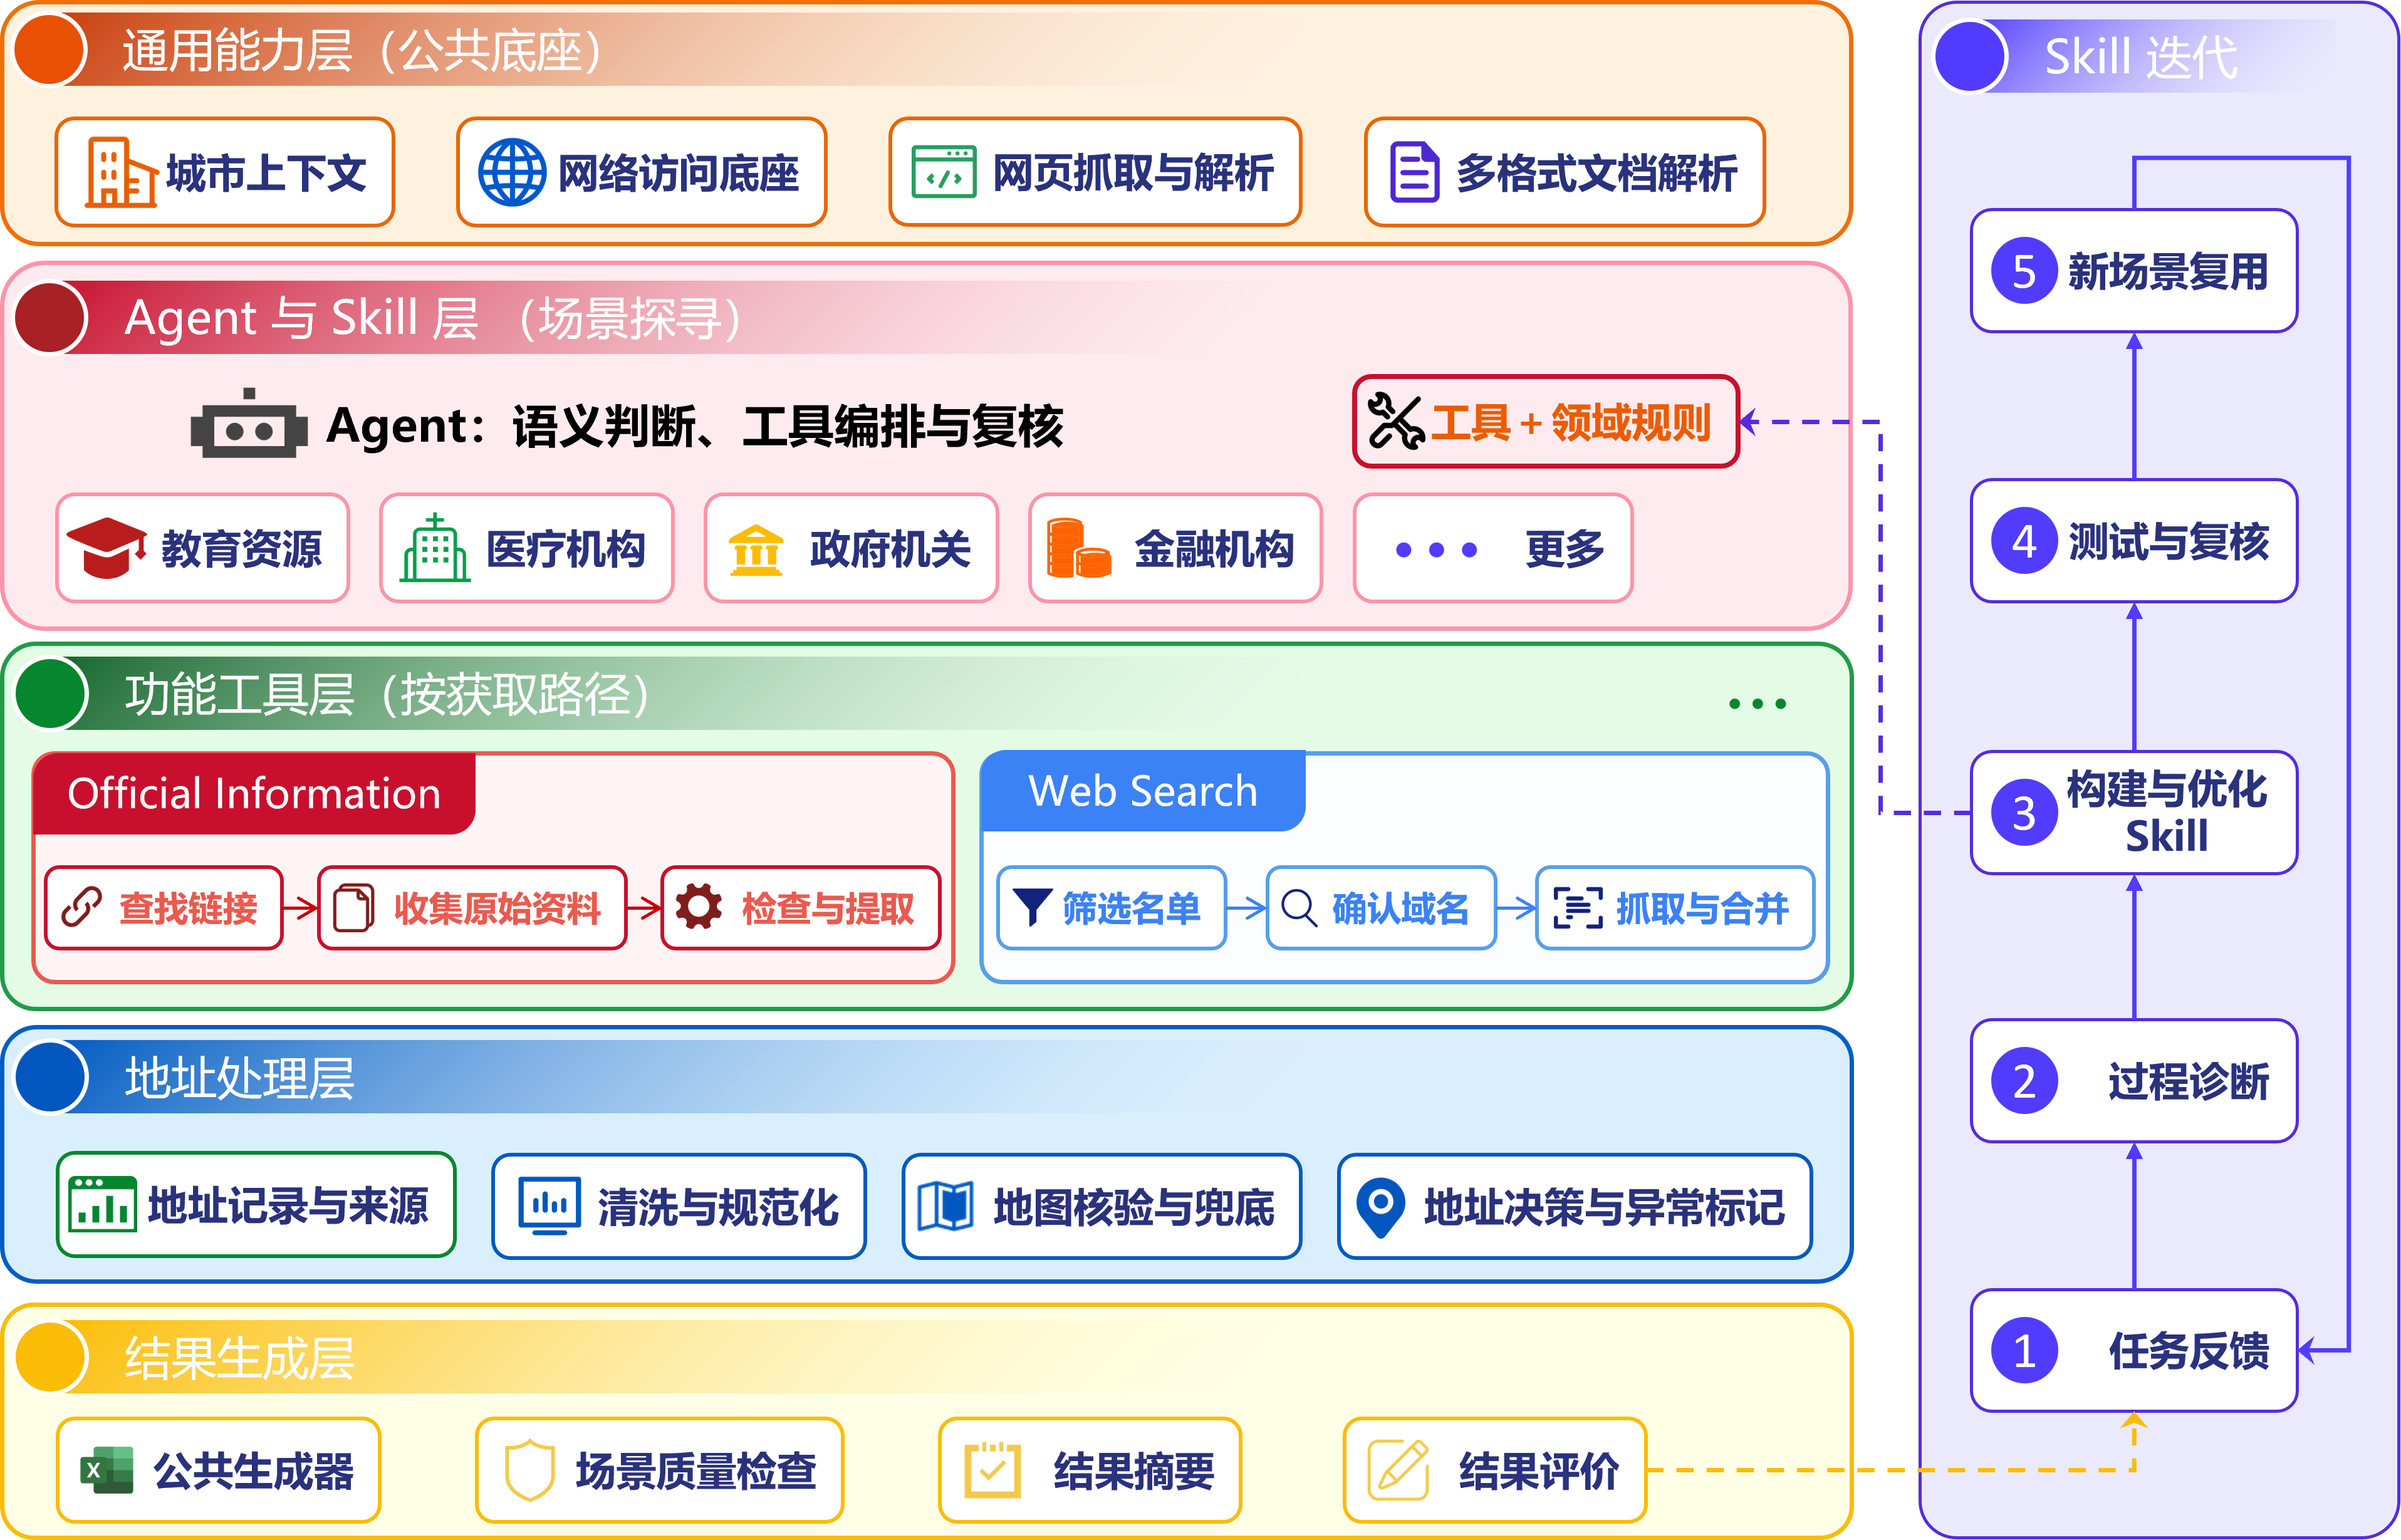
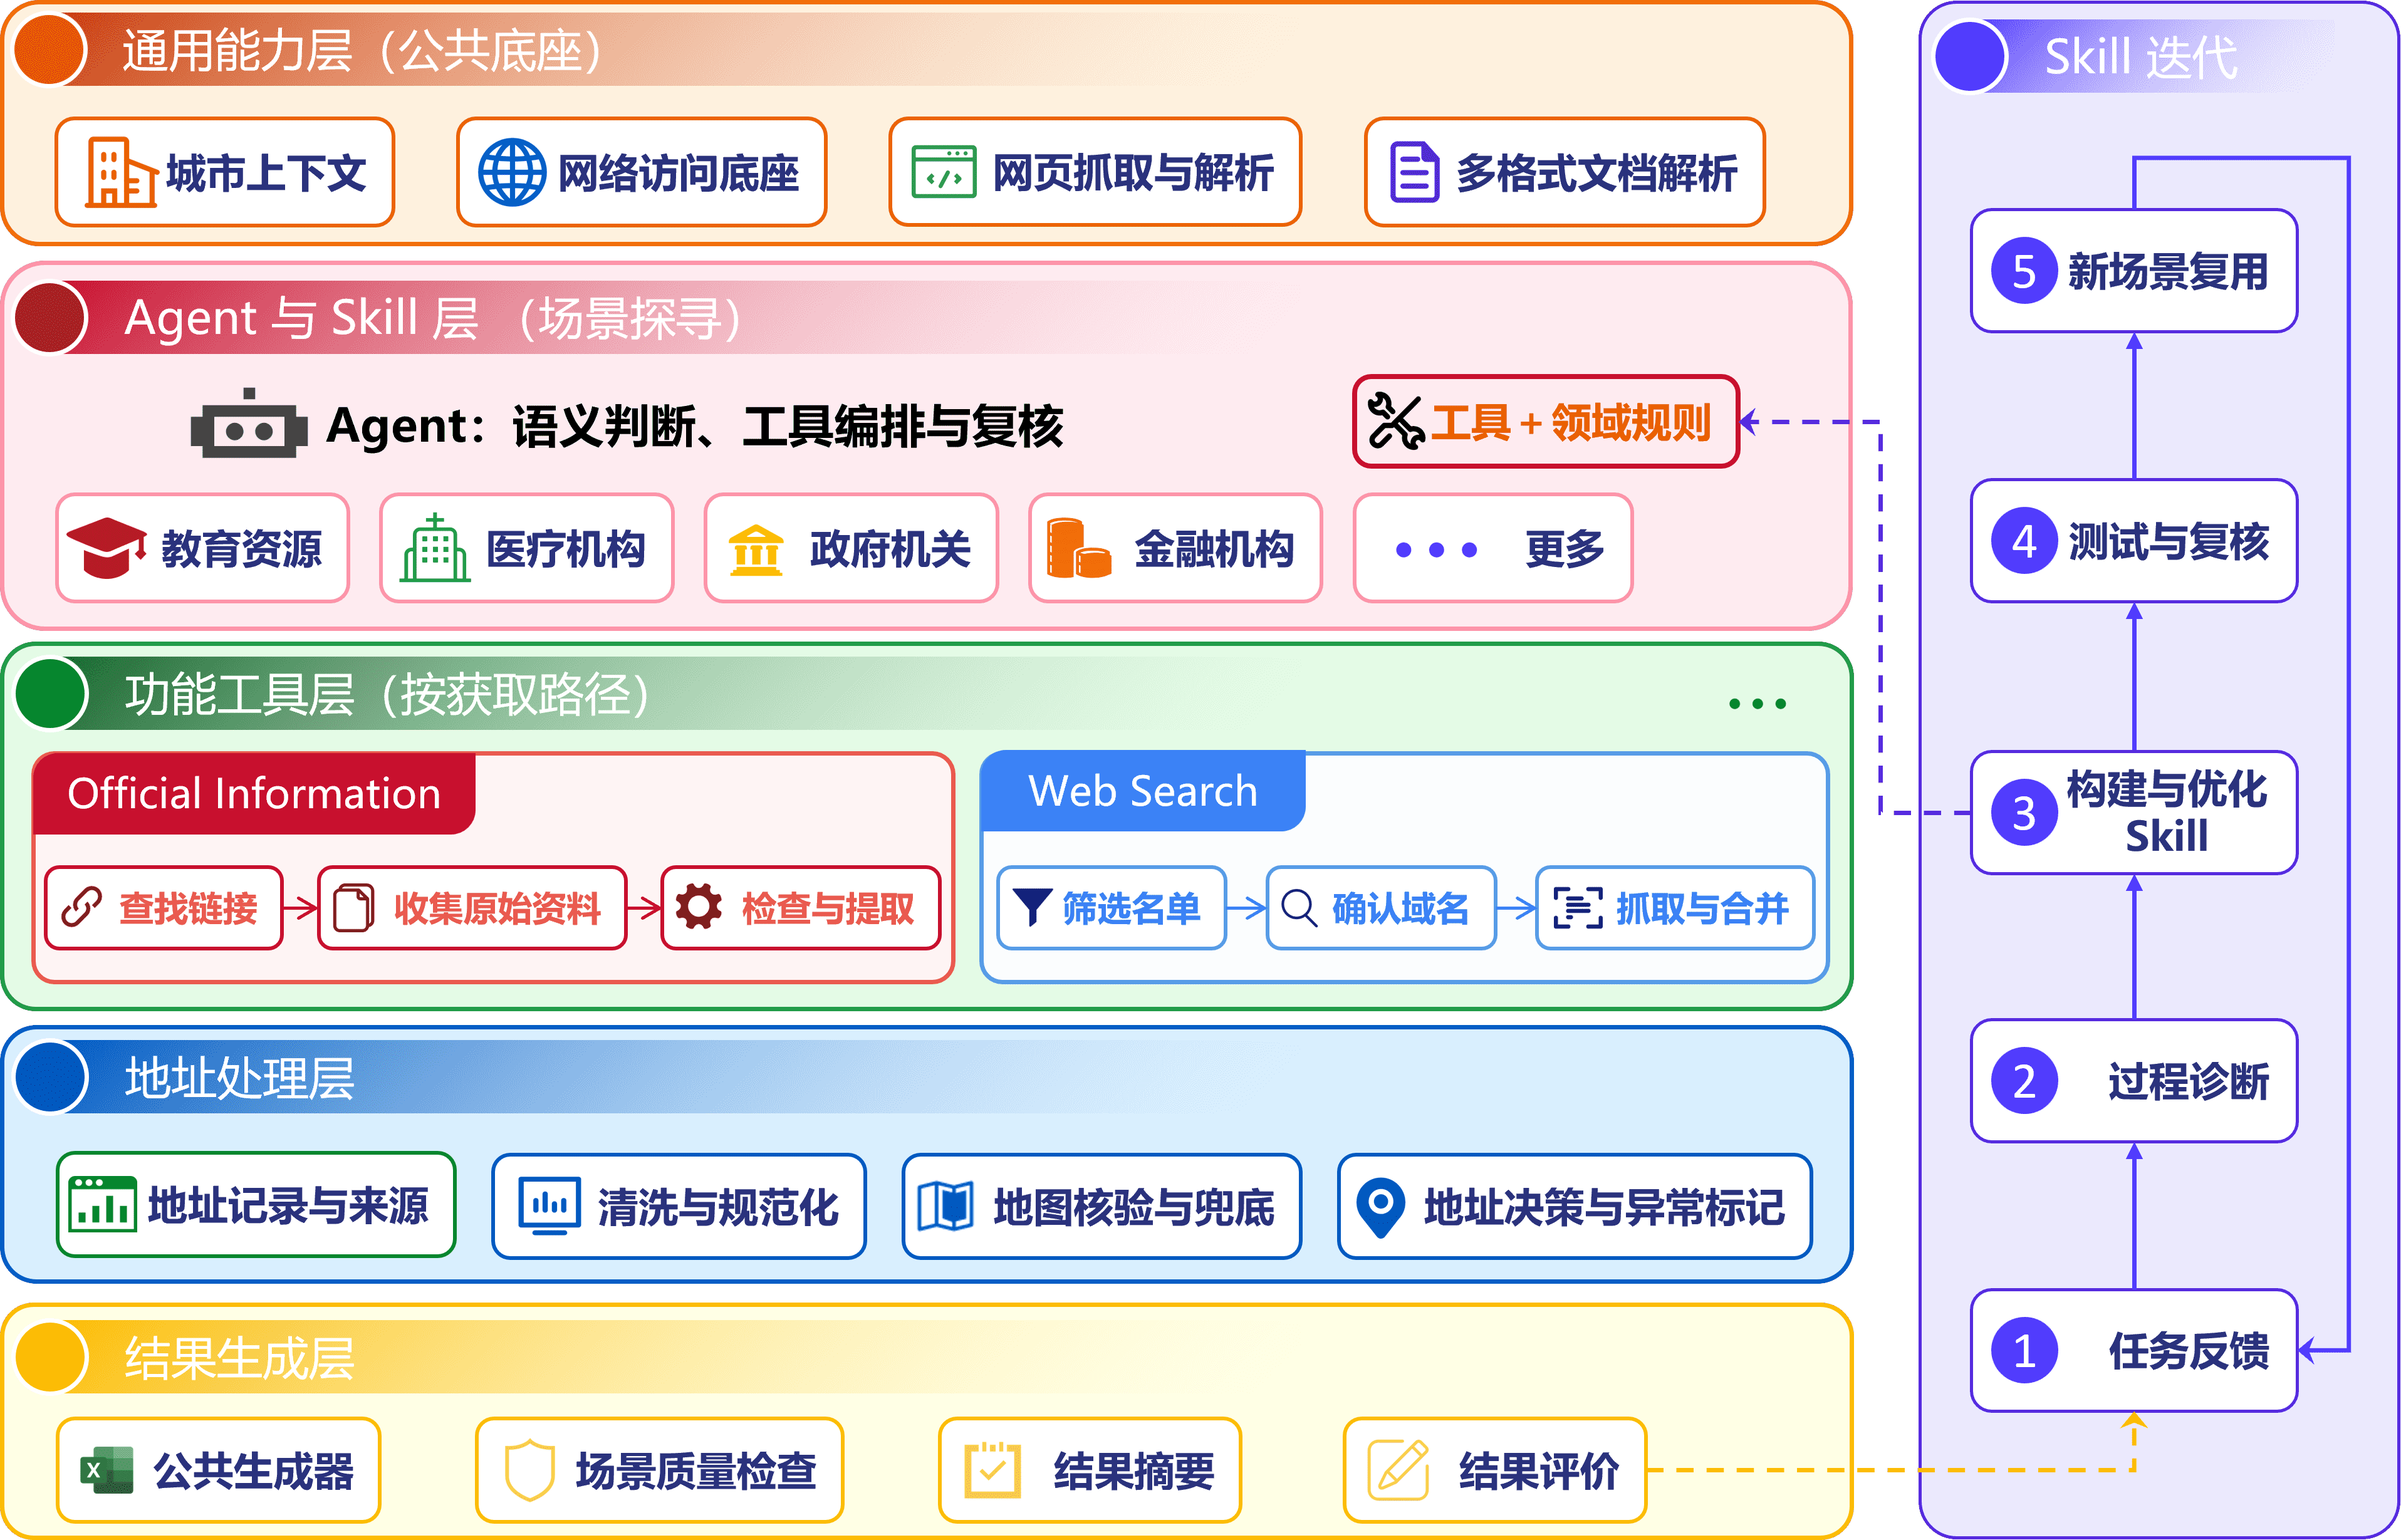
docs: 补充场景 Skill 代码结构并压缩文档配图
- 交接报告新增「场景 Skill 代码结构」：三个 Skill 的目录树与脚本职责、各 Skill 命令行入口表、两条跨 Skill 约定（闸门脚本统一接口、同名模块需分目录跑测试）
- 增长曲线图.png：1,329,217 → 201,990 bytes（15.2%），调色板量化，尺寸不变
- 架构图.png：624,873 → 325,217 bytes（52.0%），调色板量化，尺寸不变

diff --git a/doc/交接报告.md b/doc/交接报告.md
@@ -86,6 +86,62 @@ search_city_source/
 
 每个 Skill 目录结构一致：`SKILL.md`（能力与流程定义）、`AGENTS.md`（局部约定）、`scripts/`（可执行脚本与 `tests/`）、`references/`（来源与结果格式）、`assets/`（固定资产，仅高校有）、`requirements.txt`。
 
+### 场景 Skill 代码结构
+
+三个 Skill 的骨架相同，差异集中在 `scripts/`：
+
+```text
+.agents/skills/
+├── query-city-basic-education/
+│   ├── SKILL.md · AGENTS.md · requirements.txt
+│   ├── references/government-source-format.md
+│   └── scripts/
+│       ├── school_government_flow.py    政府资料流程 CLI
+│       ├── school_common.py             字段词表、记录构造、校区拆分与去重
+│       ├── review.py                    提取计划规则精确批准
+│       ├── build_excel.py               行政单位与城市总表
+│       ├── school_quality_check.py      交付质量闸门
+│       └── tests/                       7 个测试文件
+├── query-city-medical-institutions/
+│   ├── SKILL.md · AGENTS.md · requirements.txt
+│   ├── references/medical-source-format.md
+│   └── scripts/
+│       ├── medical_government_flow.py   政府资料流程 CLI
+│       ├── medical_common.py            医疗记录构造、执业地址拆分与去重
+│       ├── medical_scope.py             城市级去重、物理地址分桶、类型归并
+│       ├── build_excel.py               区级工作簿与城市总表
+│       ├── medical_quality_check.py     交付质量闸门
+│       └── tests/                       5 个测试文件
+└── query-city-universities/
+    ├── SKILL.md · AGENTS.md · requirements.txt
+    ├── assets/                          全国普通高校名单 / 985 / 211
+    ├── references/retrieval-result-format.md
+    └── scripts/
+        ├── university_filter.py         按城市筛选高校与院校标签
+        ├── university_domain.py         域名探测与批次汇总 CLI
+        ├── university_page_fetch.py     单校页面抓取与校区/地址提取
+        ├── university_fetch_runner.py   按域名清单分片并发抓取
+        ├── university_results_merge.py  逐校结果合并与覆盖校验
+        ├── build_university_address.py  页面结果 → 候选地址对 → 地址记录
+        ├── university_campus_rules.py   校区语义与地址清洗规则
+        ├── build_excel.py               高校信息与异常校工作簿
+        ├── university_quality_check.py  交付质量闸门
+        └── tests/                       8 个测试文件
+```
+
+各 Skill 的命令行入口：
+
+| 场景 | 流程入口 | 子命令 |
+| --- | --- | --- |
+| 基础教育 | `school_government_flow.py` | `list-links` / `download` / `collect-details` / `inspect` / `preview` / `mineru-parse` / `mineru-inspect` / `extract` |
+| 医疗机构 | `medical_government_flow.py` | `list-links` / `download` / `collect-details` / `platform-query` / `inspect` / `extract` |
+| 高等教育 | `university_domain.py` | `probe` / `merge` |
+
+两条跨 Skill 的约定：
+
+- 三个质量闸门脚本（`*_quality_check.py`）接口统一为 `--input-dir <运行目录>`，报告缺省写 `<运行目录>/quality_report.json`，未通过时退出码非 0；公共脚手架取自 `query_city_core.quality_gate`。
+- 三个 Skill 的 `scripts/` 存在同名模块（如各自的 `build_excel.py`），测试必须按 Skill 目录分别执行，同一进程内一起收集会互相覆盖。
+
 ### 公共核心层模块
 
 | 子包/模块 | 职责 |
